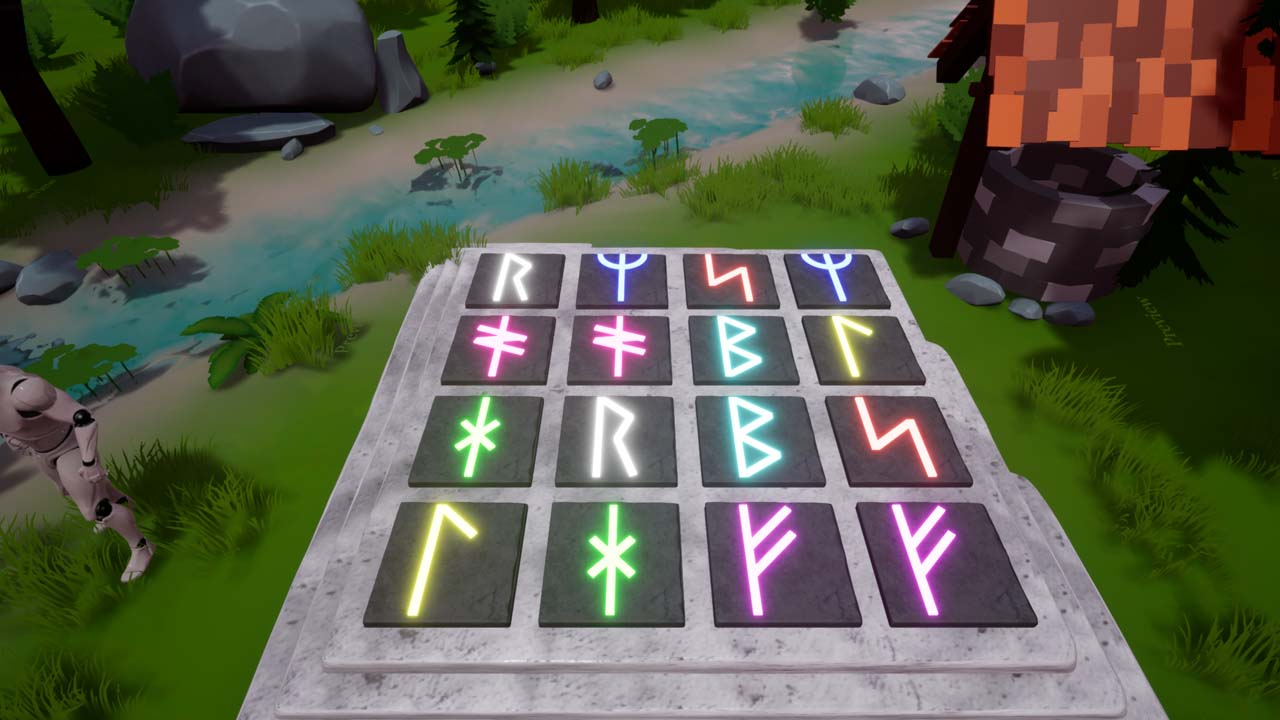
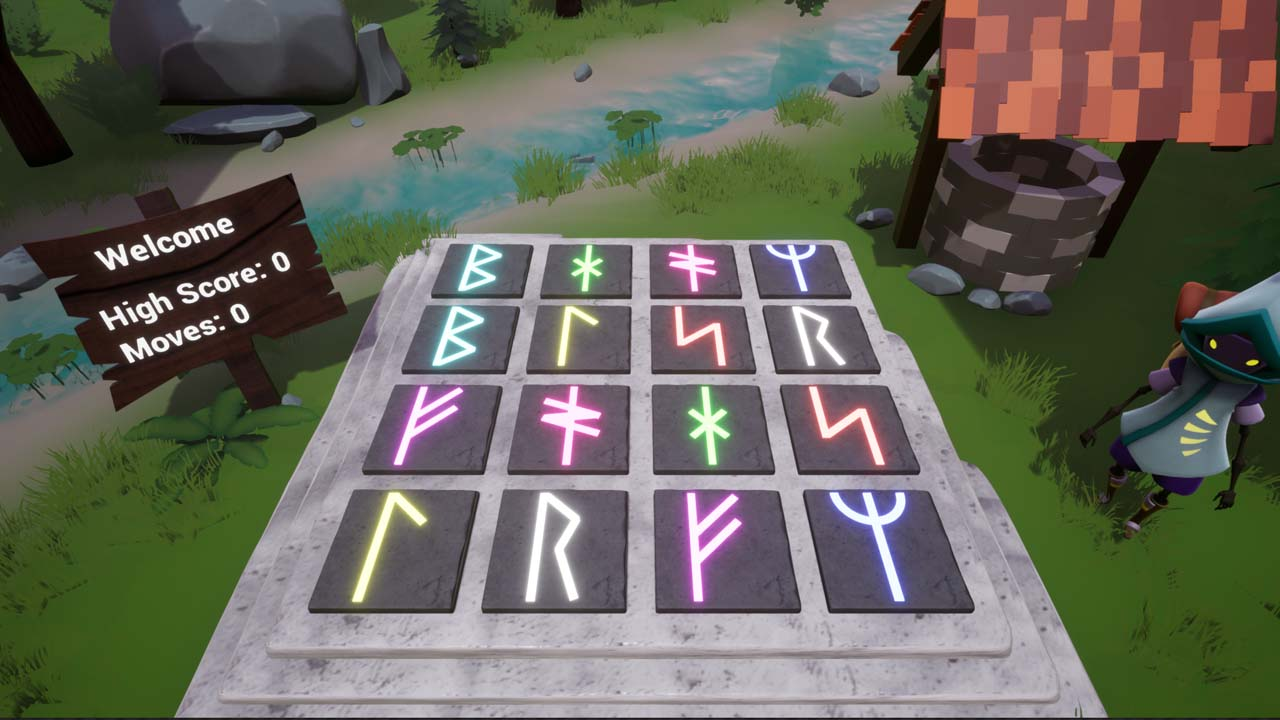
Update Jump Runes

diff --git a/public/index.html b/public/index.html
@@ -391,7 +391,7 @@
                         <h3>Unreal Engine 4</h3>
                         <div class="media-body media-middle">
                             <p>After completing an <a href="https://www.udemy.com/course/unrealcourse/" target="_blank">Unreal 4 course on Udemy</a>, I have been playing around with smaller projects to test my skills such as a platform puzzle game. Most recently, I completed a course to understand the workings of<a href="https://www.udemy.com/course/unrealmultiplayer/" target="_blank"> multiplayer in Unreal games.</a>
-							Currnetly, I'm working on my own Rune Jump game where the objective is to match all the tiles of the same type.</p>
+							Currnetly, I'm working on my own Jump Rune game where the objective is to match all the runes. The Jump Rune game can be on at <a href="https://sylaratomic.itch.io/jump-runes" target="_blank">Itch.io</a></p>
                         </div>
                         <div class="media-right padding-icon">
 						<i class="fa-solid fa-4 icon-lg"></i>
@@ -674,24 +674,26 @@
         <div class="modal-dialog modal-lg">
             <div class="modal-content">
                 <div class="modal-body">
-                    <h2>Unreal Jump Match Game</h2>
-                    <h3>Currently under development</h3>
-                    <p>The concept for this game is that you can move a character over the tiles and press the jump key to press down the tile. The objective is to find all the matches in as little jumps as possible.</p>
+                    <h2>Jump Runes Game</h2>
+                    <p>The concept for this game is that you can move a character over the tiles and jump to reveal the rune below. The objective is to find all the rune matches in as little jumps as possible. There are 8 different runes each with their own colour. 
+						The game is build in Unreal 4.27.
+					</p>
                     <h3>Features</h3>
                     <ul>
-                        <li>Character jump flip the tile below (Implemented)</li>
-                        <li>Random match locations</li>
-                        <li>Score UI (In Dev)</li>
+                        <li>Character jump to show the rune below the tile</li>
+                        <li>Runes location randomise on each run</li>
+                        <li>High Score and moves tracker</li>
                         <li>Add custom assets</li>
 					</ul>
 					<h3>Assets</h3>
-					<p>I used an environment pack from the UJnreal store to create my scene. All the other assets I created myself in blender. I'm particularly happy with how all the runes came out.</p>
+					<p>I used an environment pack from the Unreal store to create my scene. The charcter is part of the Epic Games starter kit. All the other assets I created myself in blender. I'm particularly happy with how all the runes turned out.</p>
 					<h3>How it Started</h3>
 					<img src="./assets/Adventure - Started.jpg" class="img-responsive center-block modalImageLarge"
 					alt="Started">
 					<h3>Current Progress</h3>
 					<img src="./assets/Adventure - Going.jpg" class="img-responsive center-block modalImageLarge"
 					alt="Progress">
+					<h3><a class="center-block" href="https://sylaratomic.itch.io/jump-runes" target="_blank">View on Itch.io</a></h3>
                     <button class="btn btn-primary btn-lg center-block" data-dismiss="modal"
                         aria-hidden="true">CLOSE</button>
                 </div>
